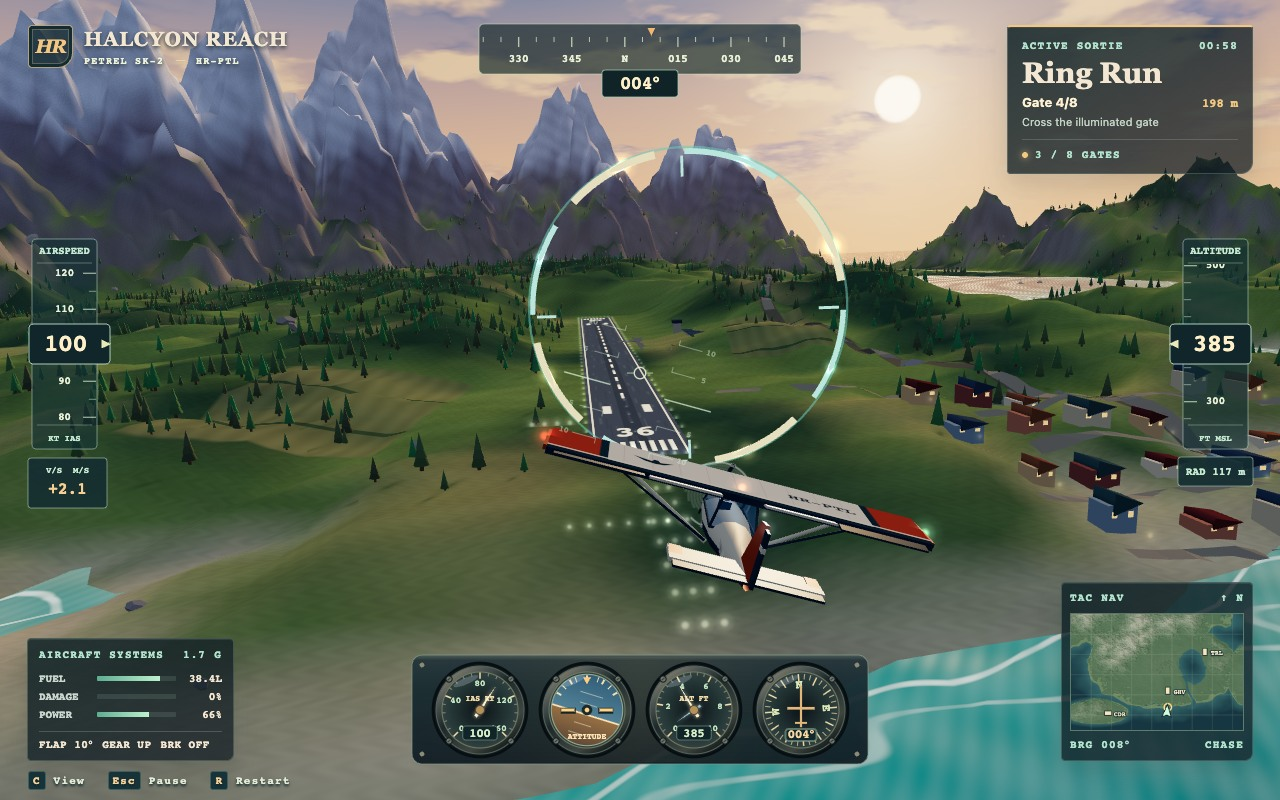
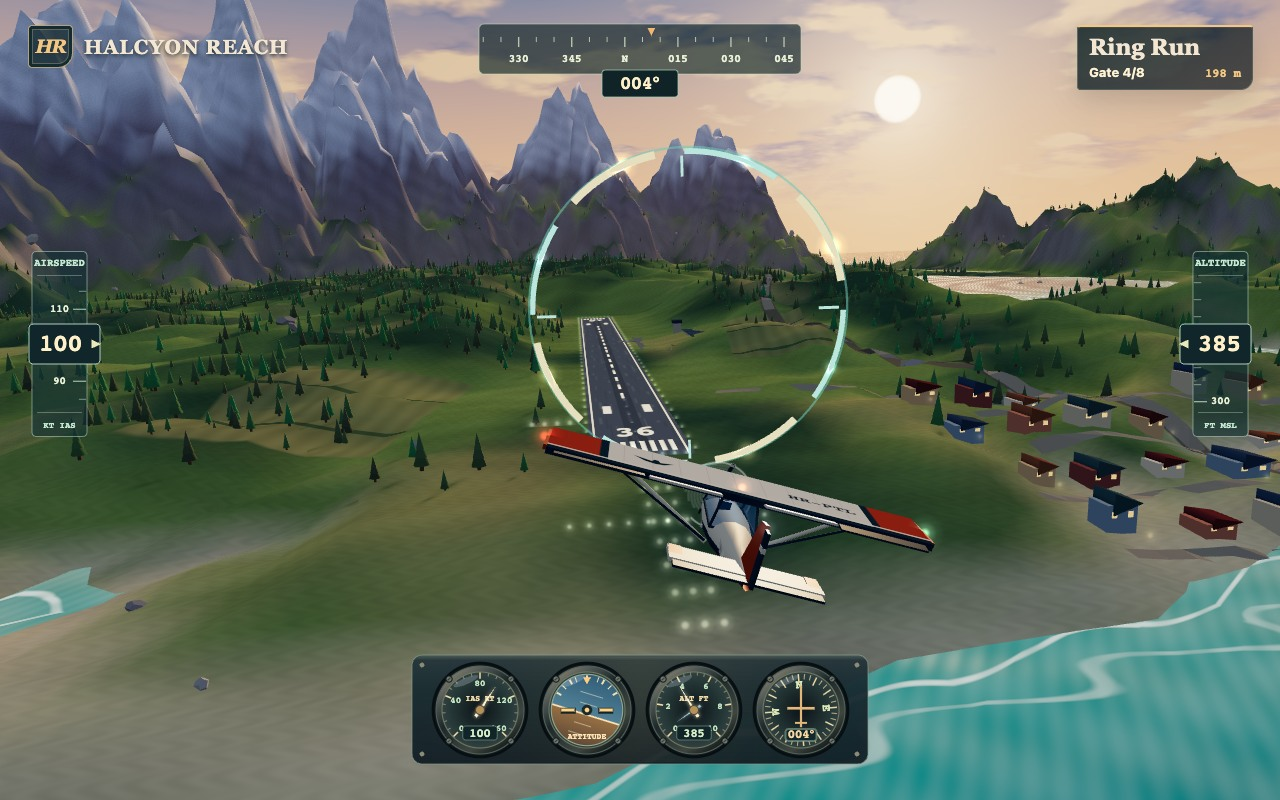
Halcyon Reach v2b: clean cover HUD, cockpit card clear of pillar

diff --git a/game/src/hud/hud.js b/game/src/hud/hud.js
@@ -14,16 +14,12 @@ function set(id, message) {
 }
 
 function renderSystems(plane) {
-  const rounded = (x) => Math.round(x * 100) + '%';
-  const fuel = rounded(plane.fuel / FUEL_CAPACITY);
-  const damage = rounded(plane.damage);
-  const power = rounded(plane.throttle);
-  element('fuel-bar').style.width = fuel;
-  element('damage-bar').style.width = damage;
-  element('power-bar').style.width = power;
-  set('fuel-value', plane.fuel.toFixed(1) + 'L');
-  set('damage-value', damage);
-  set('power-value', power);
+  const levels = { fuel: plane.fuel / FUEL_CAPACITY, damage: plane.damage, power: plane.throttle };
+  for (const [name, level] of Object.entries(levels)) {
+    const percent = Math.round(level * 100) + '%';
+    element(name + '-bar').style.width = percent;
+    set(name + '-value', name === 'fuel' ? plane.fuel.toFixed(1) + 'L' : percent);
+  }
   set('g-load', plane.g.toFixed(1) + ' G');
   set('flap-state', 'FLAP ' + [0, 10, 20, 35][plane.flaps] + '°');
   set('gear-state', 'GEAR ' + (plane.gear ? 'DN' : 'UP'));
@@ -32,28 +28,26 @@ function renderSystems(plane) {
 
 export function createHud(canvas, charts) {
   const g = canvas.getContext('2d');
+  const root = element('hud');
   const marker = new THREE.Vector3();
-  const direction = new THREE.Vector3();
-  const relative = new THREE.Vector3();
   let width = 0;
   let height = 0;
-  let ratio = 1;
 
   function resize(w, h) {
     width = w;
     height = h;
-    ratio = Math.min(1.5, devicePixelRatio || 1);
+    const ratio = Math.min(1.5, devicePixelRatio || 1);
     canvas.width = Math.round(w * ratio);
     canvas.height = Math.round(h * ratio);
     g.setTransform(ratio, 0, 0, ratio, 0, 0);
   }
 
   function drawWorldMarker(camera, objective, plane) {
-    if (objective.kind === 'gate' || objective.kind === 'landing' || plane.grounded) return;
-    marker.set(objective.x, objective.y + (objective.kind === 'fire' ? 22 : 8), objective.z);
-    camera.getWorldDirection(direction);
-    if (relative.copy(marker).sub(camera.position).dot(direction) <= 0) return;
+    const { kind } = objective;
+    if (kind === 'gate' || kind === 'landing' || plane.grounded) return;
+    marker.set(objective.x, objective.y + (kind === 'fire' ? 22 : 8), objective.z);
     marker.project(camera);
+    if (Math.abs(marker.z) > 1) return;
     const x = width * (marker.x + 1) * .5;
     const y = height * (1 - marker.y) * .5;
     if (x < 175 || x > width - 175 || y < 117 || y > height - 198) return;
@@ -71,8 +65,7 @@ export function createHud(canvas, charts) {
     g.lineTo(-12, 0);
     g.closePath();
     g.stroke();
-    const tag = objective.kind === 'fire' ? 'FIRE LINE' : objective.kind === 'rescue' ? 'FLARE' :
-      objective.kind === 'lake' ? 'SCOOP' : 'SEARCH';
+    const tag = kind === 'fire' ? 'FIRE LINE' : kind === 'rescue' ? 'FLARE' : kind === 'lake' ? 'SCOOP' : 'SEARCH';
     dialText(g, tag, 0, 23, color, 10.5);
     g.restore();
   }
@@ -84,21 +77,22 @@ export function createHud(canvas, charts) {
       const plane = sortie.plane;
       const objective = activeObjective(sortie);
       const target = bearing(plane, objective);
-      const root = element('hud');
+      const clean = root.classList.contains('shot-clean');
       root.dataset.speed = Math.round(plane.speed * KNOT);
       root.dataset.altitude = Math.round(plane.y * 3.28084);
       root.dataset.heading = heading(plane.yaw);
       root.dataset.grounded = String(plane.grounded);
       g.clearRect(0, 0, width, height);
-      if (!cockpit) drawInstrumentPanel(g, width, height, plane, false, Boolean(sortie.definition.night));
-      drawWorldMarker(camera, objective, plane);
-      drawFlightTapes(g, width, height, plane, angleDelta(plane.yaw, target), cockpit, objective);
-      charts.drawMini(plane, objective);
+      if (!cockpit) drawInstrumentPanel(g, width, height, plane, false, sortie.definition.night);
+      if (!clean) drawWorldMarker(camera, objective, plane);
+      drawFlightTapes(g, width, height, plane, angleDelta(plane.yaw, target), cockpit, objective, clean);
       set('mission-title', sortie.definition.name);
-      set('mission-clock', elapsedLabel(plane.elapsed));
-      set('mission-phase', plane.grounded ? 'GROUND OPERATIONS' : 'ACTIVE SORTIE');
       set('objective-name', objective.label);
       set('objective-range', showRange(plane, objective));
+      if (clean) return;
+      charts.drawMini(plane, objective);
+      set('mission-clock', elapsedLabel(plane.elapsed));
+      set('mission-phase', plane.grounded ? 'GROUND OPERATIONS' : 'ACTIVE SORTIE');
       set('objective-detail', objective.detail);
       set('mission-measure', missionMeasure(sortie));
       set('map-bearing', 'BRG ' + heading(target));
@@ -108,10 +102,10 @@ export function createHud(canvas, charts) {
         plane.fuel < 12 ? 'LOW FUEL' + (plane.damage >= .25 ? '  /  AIRFRAME DAMAGE' : ' · PLAN A REFUEL STOP') :
           plane.damage >= .25 ? 'AIRFRAME DAMAGE · REDUCED CONTROL' : '';
       element('flight-warning').hidden = !warning;
-      element('flight-warning').classList.toggle('caution', Boolean(warning) && !plane.stallWarning);
+      element('flight-warning').classList.toggle('caution', warning && !plane.stallWarning);
       element('event-banner').hidden = !notification;
       set('flight-warning', warning);
-      set('event-banner', notification || '');
+      set('event-banner', notification);
     }
   };
 }

diff --git a/game/src/hud/flightTapes.js b/game/src/hud/flightTapes.js
@@ -47,7 +47,8 @@ function drawHeading(g, w, yaw, target) {
 }
 
 function drawTape(g, settings) {
-  const { x, y, width, height, speed, raw, unit, name, cockpit } = settings;
+  const { x, y, width, height, speed, raw, cockpit } = settings;
+  const mid = x + width / 2;
   const center = y + height / 2;
   const lineX = speed ? x + width - 1 : x + 1;
   const step = speed ? 5 : 25;
@@ -63,17 +64,16 @@ function drawTape(g, settings) {
     const offset = center + (raw - value) * period;
     const mark = speed ? index % 2 === 0 : index % 4 === 0;
     line(g, lineX, offset, lineX + (speed ? -1 : 1) * (mark ? 13 : 7), offset, '#d9ecd0a9', mark ? 1.3 : .8);
-    if (mark) dialText(g, value, x + width / 2, offset, ink, 10.5);
+    if (mark) dialText(g, value, mid, offset, ink, 10.5);
   }
   g.restore();
-  line(g, x + 5, y + 24, x + width - 5, y + 24, '#bad7bc61');
-  line(g, x + 5, y + height - 24, x + width - 5, y + height - 24, '#bad7bc61');
-  dialText(g, name, x + width / 2, y + 12, mint, cockpit ? 9 : 10.5);
-  dialText(g, unit, x + width / 2, y + height - 11, mint, 9);
+  for (const edge of [y + 24, y + height - 24]) line(g, x + 5, edge, x + width - 5, edge, '#bad7bc61');
+  dialText(g, speed ? 'AIRSPEED' : 'ALTITUDE', mid, y + 12, mint, cockpit ? 9 : 10.5);
+  dialText(g, speed ? 'KT IAS' : 'FT MSL', mid, y + height - 11, mint, 9);
   const boxWidth = width + 16;
   plate(g, speed ? x - 3 : x - 13, center - 20, boxWidth, 40, 4, '#10262a', '#c7e6cfdd');
   pointer(g, speed ? x + width + 8 : x - 8, center, 6.2, '#e9e9ba', speed ? Math.PI / 2 : -Math.PI / 2);
-  dialText(g, Math.round(raw), x + width / 2 + (speed ? 1 : -1), center, '#fff0ca', 24);
+  dialText(g, Math.round(raw), mid + (speed ? 1 : -1), center, '#fff0ca', 24);
 }
 
 function drawFlightReference(g, w, h, plane, cockpit) {
@@ -88,13 +88,12 @@ function drawFlightReference(g, w, h, plane, cockpit) {
     const middle = i === 0;
     const ox = middle ? 76 : 52;
     const color = middle ? '#d7f3d9b8' : '#d7f3d970';
-    line(g, -ox, y, -28, y, color, middle ? 1.5 : 1);
-    line(g, ox, y, 28, y, color, middle ? 1.5 : 1);
-    if (middle) continue;
-    line(g, 28, y, 28, y + Math.sign(i) * 5, color);
-    line(g, -28, y, -28, y + Math.sign(i) * 5, color);
-    dialText(g, Math.abs(i * 5), -ox - 9, y, color, 8);
-    dialText(g, Math.abs(i * 5), ox + 9, y, color, 8);
+    for (const side of [-1, 1]) {
+      line(g, side * ox, y, side * 28, y, color, middle ? 1.5 : 1);
+      if (middle) continue;
+      line(g, side * 28, y, side * 28, y + Math.sign(i) * 5, color);
+      dialText(g, Math.abs(i * 5), side * (ox + 9), y, color, 8);
+    }
   }
   g.restore();
   const gamma = Math.atan2(plane.vy, Math.max(12, plane.speed));
@@ -115,16 +114,17 @@ function drawVerticalRate(g, x, y, rate) {
   dialText(g, formatted, x + 39.5, y + 32, gold, 16);
 }
 
-export function drawFlightTapes(g, w, h, plane, angle, cockpit, objective) {
-  const height = Math.min(h * .30, 210);
+export function drawFlightTapes(g, w, h, plane, angle, cockpit, objective, clean) {
+  const height = Math.min(h * .30, clean ? 185 : 210);
   const y = Math.max(170, h * .43 - height * .5);
-  const width = w > 900 ? 65 : 55;
+  const width = !clean && w > 900 ? 65 : 55;
   const x = w > 900 ? 32 : 15;
   const right = w - x - width;
-  drawFlightReference(g, w, h, plane, cockpit);
+  if (!clean) drawFlightReference(g, w, h, plane, cockpit);
   drawHeading(g, w, plane.yaw, angle);
-  drawTape(g, { x, y, width, height, speed: true, name: 'AIRSPEED', unit: 'KT IAS', raw: plane.speed * KNOT, cockpit });
-  drawTape(g, { x: right, y, width, height, speed: false, name: 'ALTITUDE', unit: 'FT MSL', raw: plane.y * 3.28084, cockpit });
+  drawTape(g, { x, y, width, height, speed: true, raw: plane.speed * KNOT, cockpit });
+  drawTape(g, { x: right, y, width, height, raw: plane.y * 3.28084, cockpit });
+  if (clean) return;
   plate(g, right - 5, y + height + 8, width + 10, 29, 3, '#142c30e8', '#b9dec283');
   dialText(g, 'RAD ' + Math.round(plane.agl) + ' m', right + width / 2, y + height + 23, mint, 11);
   drawVerticalRate(g, x - 4, y + height + 9, plane.vy);

diff --git a/game/style.css b/game/style.css
@@ -5,8 +5,6 @@
   --mint: #b3e4ce;
   --line: #91ad9c51;
   --gold: #f3c781;
-  --ember: #ffac75;
-  --charcoal: #0c1a20;
   --serif: Georgia, 'Times New Roman', serif;
   --mono: 'SFMono-Regular', Consolas, 'Liberation Mono', monospace;
   font-family: system-ui, sans-serif;
@@ -54,6 +52,12 @@ canvas { display: block; }
 .objective-line strong { font-size: 13px; line-height: 1.24; color: #fff1d4; }
 .objective-line b { font: 700 12px var(--mono); color: var(--gold); flex-shrink: 0; }
 .objective p { font-size: 11px; color: #c3d3c6; margin: 5px 0 9px; line-height: 1.36; }
+.shot-clean > :not(.flight-id, .objective),
+.shot-clean :is(small, .micro, p, .mission-foot) { display: none; }
+.shot-clean .objective, [data-view=cockpit] .objective { width: 176px; padding: 9px 11px; }
+.shot-clean h2 { margin: 0 0 5px; }
+.shot-clean h2, [data-view=cockpit] .objective h2 { font-size: 23px; }
+[data-view=cockpit] .objective { right: max(12px, calc(50% - 43vh)); top: 108px; }
 .mission-foot { display: flex; align-items: center; gap: 7px; padding-top: 8px; border-top: 1px solid #abc0a941; color: var(--mint); }
 .mission-foot i { width: 6px; height: 6px; background: var(--gold); border-radius: 50%; box-shadow: 0 0 8px #f2c58c; }
 .systems { position: absolute; left: 27px; bottom: 39px; width: 207px; padding: 9px 11px 8px; border-radius: 4px 4px 7px 4px; }

diff --git a/game/src/shots.js b/game/src/shots.js
@@ -2,7 +2,7 @@ import { RAD } from './core/math.js';
 
 export const SHOT_PRESETS = {
   cover: {
-    mission: 'ring', camera: 'chase', time: 38, gate: 3,
+    mission: 'ring', camera: 'chase', time: 38, gate: 3, hudClass: 'shot-clean',
     rig: { range: 22.1, rise: 9.65, swing: -.13, tilt: -.19 },
     plane: {
       x: 88, y: 117, z: 644, yaw: 3.7 * RAD, roll: .25, pitch: .04, grounded: false,

diff --git a/game/src/main.js b/game/src/main.js
@@ -201,6 +201,7 @@ function paint(dt) {
 
 function runShot(preset) {
   photoRig = preset.rig;
+  element('hud').className = preset.hudClass ?? '';
   const mission = MISSIONS.find(record => record.id === preset.mission);
   sortie = beginSortie(mission);
   if (preset.plane) sortie.plane = createFlight(preset.plane);
